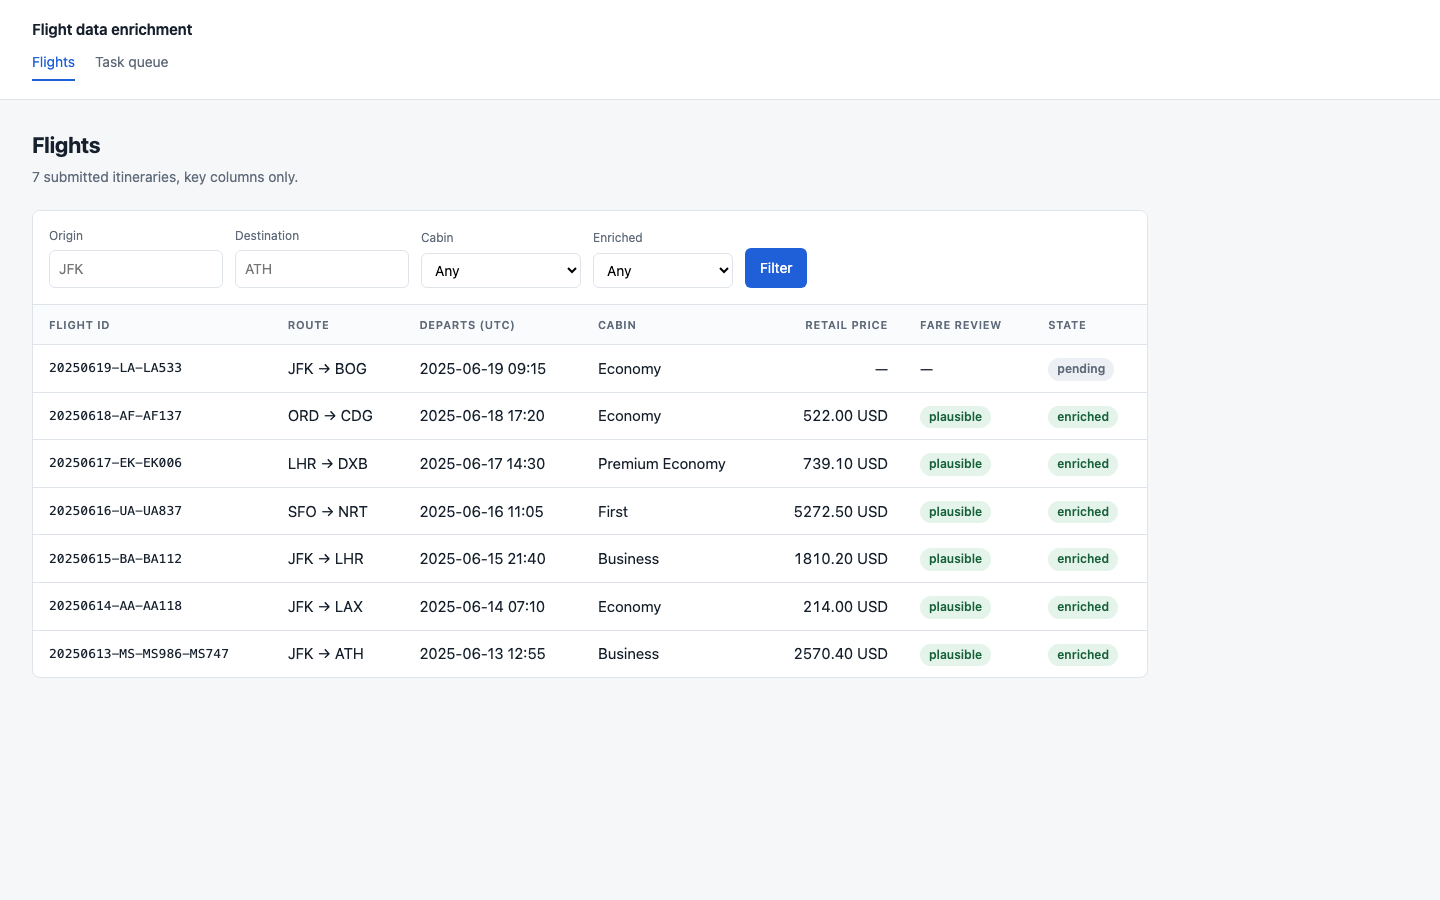
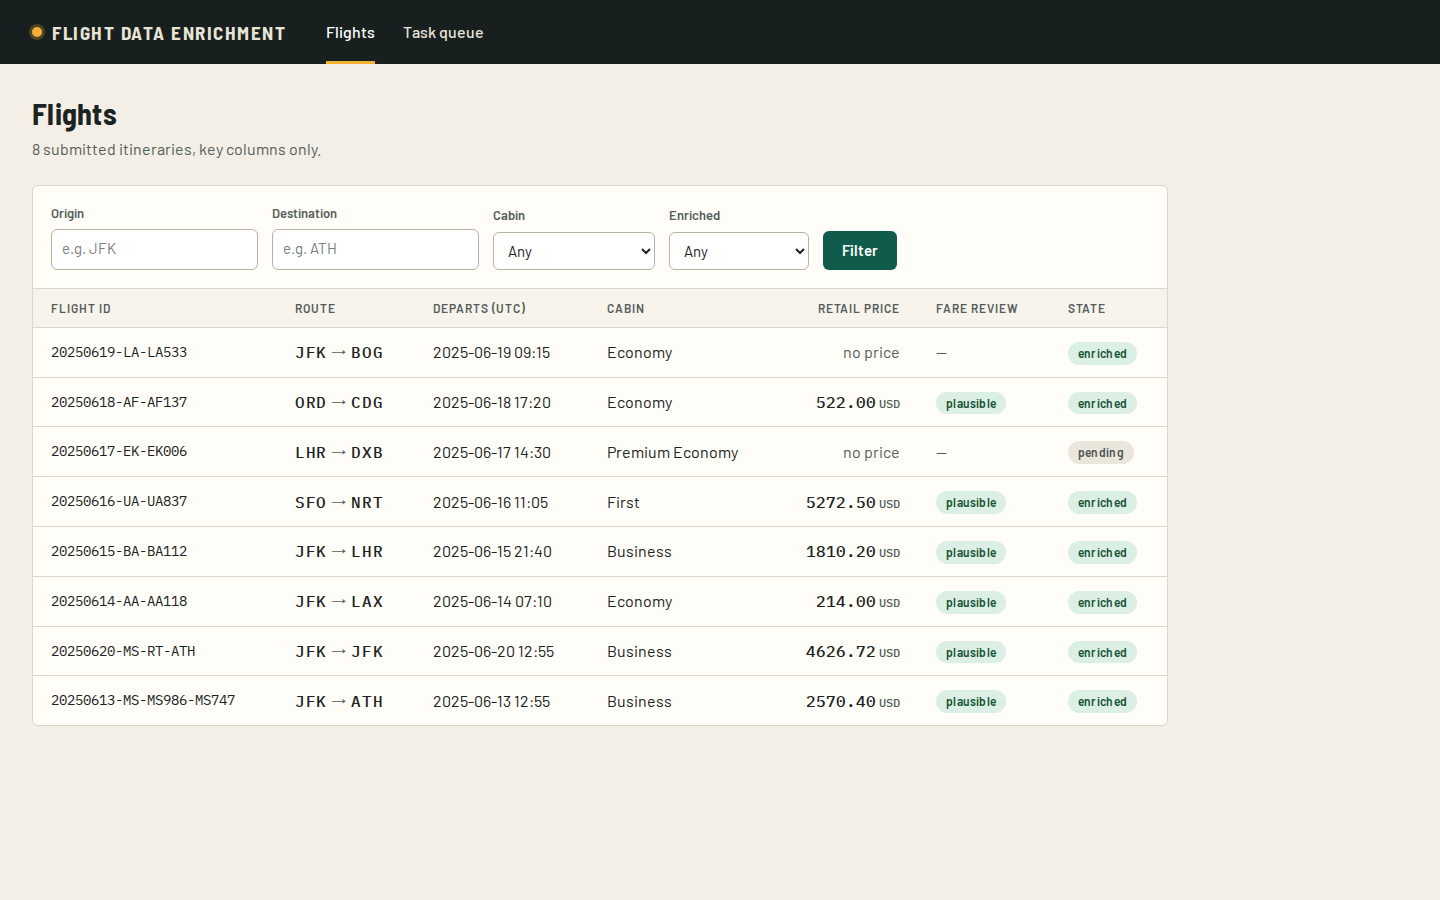
Document the Compose path, round-trip pricing and captured responses
Compose is now the first setup path, verified from a clean checkout, and
the old note saying the image was never built is gone. The JSON screenshot
gives way to request/response examples captured from the running stack
(docs/api-examples.json), and the Django screenshots are retaken at
desktop and phone widths after the restyle.

diff --git a/README.md b/README.md
@@ -12,10 +12,34 @@ exercise, not a production pricing platform.
 The one thing it does that the brief did not ask for is put the price lookup behind an
 interface. SerpAPI is metered and needs an account, and a project nobody can run is a
 project nobody will read — so the default provider serves deterministic fares from a
-checked-in JSON file, and `git clone` to a working `/enrich-flight` call is four commands
-and no credentials.
+checked-in JSON file, and `git clone` to a working `/enrich-flight` call needs no
+credentials.
 
 ## Try it
+
+The whole stack — API, Celery worker, Redis and the Django pages — comes up with one
+command:
+
+```bash
+docker compose up --build
+```
+
+The API is on `localhost:8000` (OpenAPI page at `/docs`), the Django pages on
+`localhost:8001/flights/`. Submit the sample payload from the exercise brief:
+
+```bash
+curl -s -X POST localhost:8000/enrich-flight \
+  -H 'content-type: application/json' -d @sample_flight.json
+```
+
+Under Compose the task goes to the worker through Redis, so the reply says `PENDING`
+and `GET /task-status/{task_id}` turns `SUCCESS` a moment later. The captured exchanges
+are [further down](#captured-requests-and-responses).
+
+### Without Docker
+
+Python 3.12 (see `.python-version`). With no `CELERY_BROKER_URL` set the task runs inline
+in the API process, so nothing else needs to be running:
 
 ```bash
 python -m venv .venv && source .venv/bin/activate
@@ -24,7 +48,7 @@ python backend/manage.py migrate
 uvicorn api.main:app --port 8000
 ```
 
-Then, with the sample payload from the exercise brief:
+Then, with the same payload:
 
 ```bash
 curl -s -X POST localhost:8000/enrich-flight \
@@ -79,12 +103,12 @@ flowchart TD
     C --> D["Create EnrichmentTask<br/>status PENDING"]
     D --> E{"Broker configured?"}
     E -->|"no"| F["Run inline"]
-    E -->|"yes"| G["Queue for a Celery worker"]
+    E -->|"yes"| G["Queue for a Celery worker<br/>503 if Redis is unreachable"]
     F --> H["Build PriceQuery"]
     G --> H
 
     H --> I{"One-way or return?"}
-    I -->|"origin equals destination"| J["Round trip, send return_date"]
+    I -->|"origin equals destination"| J["Round trip: destination is the longest stay<br/>return_date is when the next leg leaves"]
     I -->|"otherwise"| K["One way, no return_date"]
     J --> L["Look up the quote cache<br/>by query fingerprint"]
     K --> L
@@ -114,7 +138,11 @@ pipeline quietly returns a number that is *wrong* rather than a number that is m
 one-way search with no return date — sending the arrival date as a return date prices a
 journey home nobody asked for, and the answer looks entirely valid. `build_query` in
 `backend/flights/services/enrichment.py` decides this from whether origin and destination
-match.
+match. The reverse case has its own trap: a round trip's top-level origin and destination
+are the *same* airport, so searching them as given asks for JFK→JFK. The searched
+destination is the stop with the longest time on the ground — a connection is hours, a
+stay is days — and the return date is when the next leg leaves. A round trip whose legs
+carry no times fails as a permanent error rather than being guessed.
 
 **The cabin has to be sent.** Google Flights defaults to economy when `travel_class` is
 omitted, so a business itinerary comes back at roughly a quarter of its fare with no
@@ -218,17 +246,27 @@ must never cost you the price you already paid to fetch.
 
 ## The two pages
 
+Server-rendered Django, no JavaScript. Below 760px wide the tables fold into labelled
+rows rather than scrolling sideways.
+
 `/flights/` — every submitted itinerary, key columns only, filterable by route, cabin and
-enrichment state, paginated at 25.
+enrichment state, paginated at 25 with the filters kept across pages.
 
 ![The flight table](docs/screenshots/flight-list.png)
 
-`/flights/tasks/` — the last three completed enrichment tasks and how each one ended.
+`/flights/tasks/` — the last three completed enrichment tasks and how each one ended. The
+failed row is a simulated SerpAPI rate limit, there to show the give-up path.
 
 ![The task queue](docs/screenshots/task-queue.png)
 
-Run them with `python backend/manage.py runserver` against the same SQLite file the API
-writes to. The FastAPI side publishes its own OpenAPI page at `/docs`.
+<p>
+  <img src="docs/screenshots/flight-list-mobile.png" alt="The flight table at phone width" width="260">
+  <img src="docs/screenshots/task-queue-mobile.png" alt="The task queue at phone width" width="260">
+</p>
+
+Outside Compose, run them with `cd backend && python manage.py runserver 8001` against the
+same SQLite file the API writes to. The screenshots use the fixture provider and demo
+itineraries only.
 
 ## The schema
 
@@ -277,7 +315,7 @@ worker does the pricing.
 
 ```bash
 pip install -r requirements-dev.txt
-pytest          # 117 tests
+pytest          # 126 tests
 ruff check . && ruff format --check .
 ```
 
@@ -299,8 +337,9 @@ Redis. All three Python services share one SQLite file on a named volume — the
 limitation of keeping SQLite, and the reason this compose file is a demonstration rather
 than a deployment. The image is multi-stage and runs as a non-root user.
 
-`docker compose config` parses. The image has not been built or booted here — Docker was
-unavailable on the machine this was last worked on.
+The stack was last brought up from a clean checkout with exactly that command, and the
+exchanges below were captured from it. Pass `FLIGHT_PRICE_PROVIDER=serpapi` and
+`SERPAPI_KEY` in the environment to price against Google Flights instead of the fixture.
 
 ## What I would fix before this saw real traffic
 
@@ -318,13 +357,105 @@ unavailable on the machine this was last worked on.
   chosen so the pipeline is demonstrable and the tests can assert exact numbers. They are
   not market data.
 
+## Captured requests and responses
 
-## Verified native enrichment example
+Taken from the Compose stack with the sample payload — so the submit answers `PENDING`
+and the worker finishes the job about a second later. The full set is in
+[`docs/api-examples.json`](docs/api-examples.json).
 
-![Native itinerary enrichment responses](docs/screenshots/native-api.png)
+`POST /enrich-flight` with `sample_flight.json` → `202 Accepted`
 
-The [captured responses](docs/native-api.json) show a submitted itinerary and its
-successful stored task result in a disposable SQLite database. Pricing uses the
-bundled fixture and the heuristic reviewer; execution is inline, with no Redis
-broker or paid provider. This verifies the default local path. Hosted pricing
-and multi-process Celery execution remain separate deployment checks.
+```json
+{
+  "task_id": "69472f9a-1f07-49ca-b143-6b0beec19cd9",
+  "flight_id": "20250613-MS-MS986-MS747",
+  "status": "PENDING"
+}
+```
+
+`GET /task-status/69472f9a-1f07-49ca-b143-6b0beec19cd9` → `200 OK`
+
+```json
+{
+  "task_id": "69472f9a-1f07-49ca-b143-6b0beec19cd9",
+  "status": "SUCCESS",
+  "attempts": 1,
+  "created_at": "2026-11-08T05:33:39.089171Z",
+  "completed_at": "2026-11-08T05:33:39.860632Z",
+  "flight": {
+    "id": "20250613-MS-MS986-MS747",
+    "origin": "JFK",
+    "destination": "ATH",
+    "travel_class": "Business",
+    "departure_time": "2025-06-13T12:55:00+00:00",
+    "arrival_time": "2025-06-14T12:10:00+00:00",
+    "flight_numbers": [
+      "MS986",
+      "MS747"
+    ],
+    "leg_count": 2
+  },
+  "result": {
+    "flight_id": "20250613-MS-MS986-MS747",
+    "retail_price": "2570.40",
+    "currency": "USD",
+    "provider": "fixture",
+    "cache_hit": false,
+    "review": {
+      "rating": "plausible",
+      "rationale": "40.8 c/mi sits inside the 12-240 c/mi band for Business.",
+      "reviewer": "heuristic",
+      "cents_per_mile": 40.79
+    },
+    "warnings": []
+  }
+}
+```
+
+`GET /flights?origin=JFK&limit=5` → `200 OK`
+
+```json
+{
+  "items": [
+    {
+      "id": "20250613-MS-MS986-MS747",
+      "origin": "JFK",
+      "destination": "ATH",
+      "travel_class": "Business",
+      "departure_time": "2025-06-13T12:55:00Z",
+      "arrival_time": "2025-06-14T12:10:00Z",
+      "retail_price": "2570.40",
+      "currency": "USD",
+      "price_provider": "fixture",
+      "enriched": true,
+      "fare_review": {
+        "rating": "plausible",
+        "rationale": "40.8 c/mi sits inside the 12-240 c/mi band for Business.",
+        "reviewer": "heuristic",
+        "cents_per_mile": 40.79
+      }
+    }
+  ],
+  "total": 1,
+  "limit": 5,
+  "offset": 0
+}
+```
+
+`GET /task-status/not-a-real-task` → `404 Not Found`
+
+```json
+{"detail": "Task not found"}
+```
+
+`GET /healthz` → `200 OK` — `celery_eager` is `false` because a broker is configured.
+
+```json
+{
+  "status": "ok",
+  "database": "ok",
+  "price_provider": "fixture",
+  "fare_reviewer": "heuristic",
+  "celery_eager": false
+}
+```
